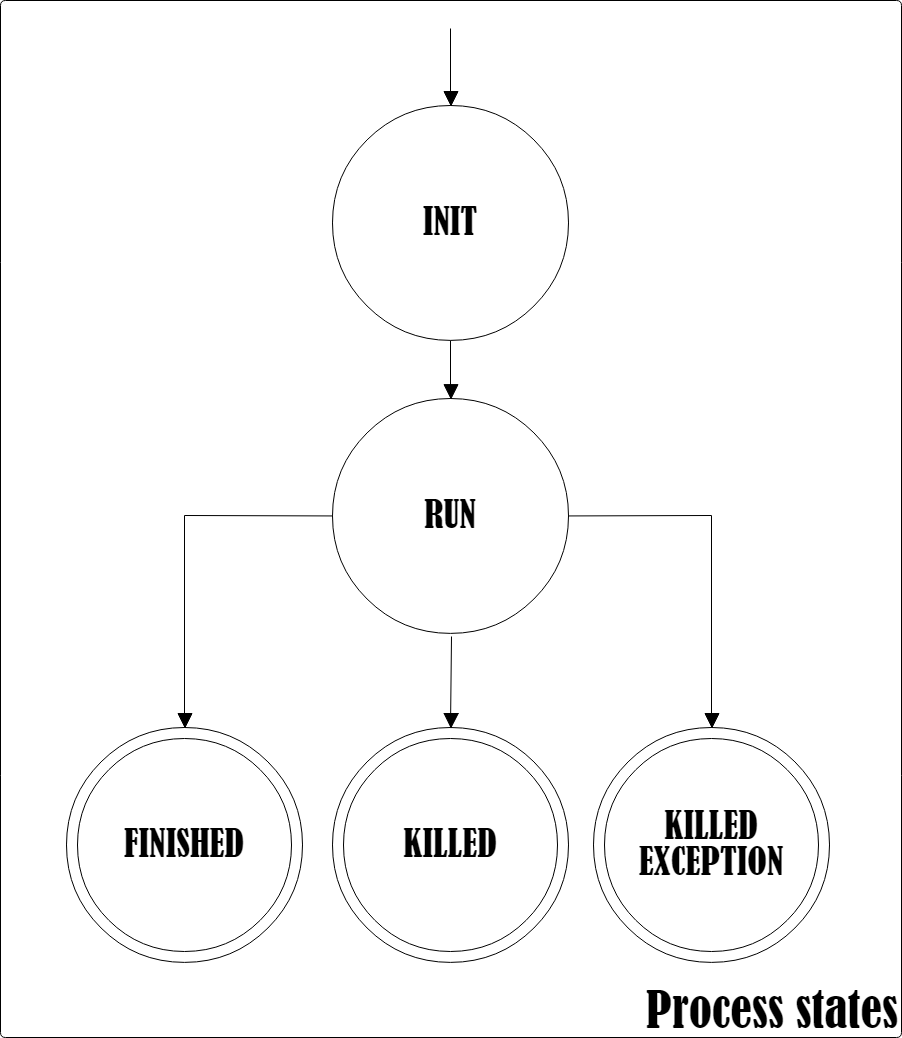
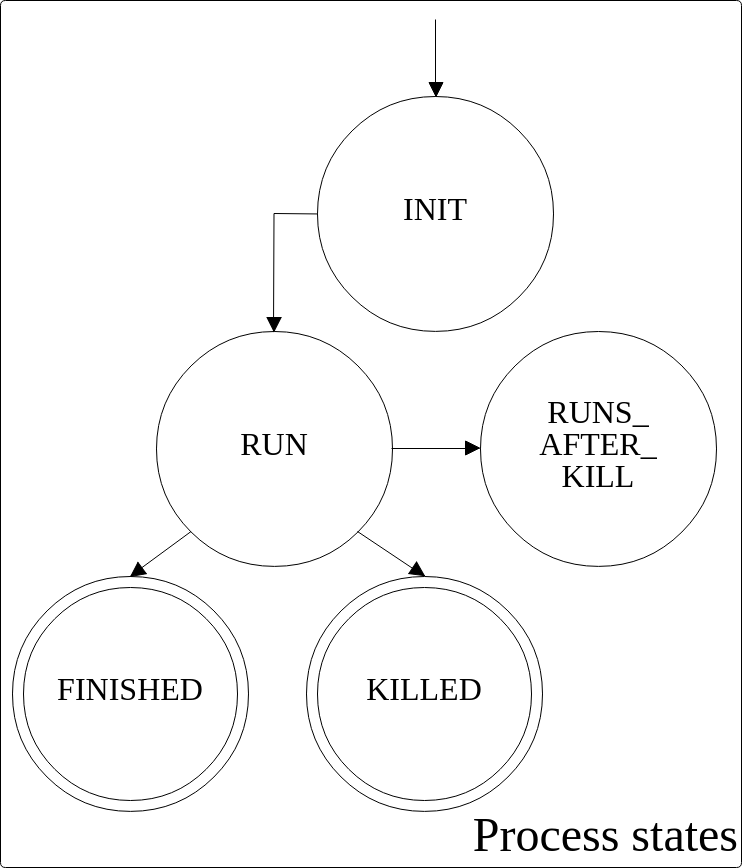
Code cleanup for linux support. Hard kill removed.

diff --git a/test/TestThreadWatcher.cpp b/test/TestThreadWatcher.cpp
@@ -69,7 +69,7 @@ void monitorWatcher(ThreadWatcher &watcher, std::vector<testProcess> processings
 void addProcessToWatcher(ThreadWatcher &watcher)
 {
 	std::this_thread::sleep_for(1s);
-	std::shared_ptr<IFunction> ptrProcessClean(new CleanProcessTesting());
+	std::shared_ptr<IFunction> ptrProcessClean(new ProcessTesting());
 	std::shared_ptr<Process> processClean(new Process(ptrProcessClean));
 	watcher.addProcess("PASS_A37", processClean);
 	ASSERT_TRUE(watcher.existsProcess("PASS_A37"));
@@ -85,7 +85,7 @@ TEST(TestThreadWatchers, ExistsProcessNotFound)
 TEST(TestThreadWatchers, ExistsProcess)
 {
 	ThreadWatcher watcher;
-	std::shared_ptr<IFunction> ptrFunction(new CleanProcessTesting());
+	std::shared_ptr<IFunction> ptrFunction(new ProcessTesting());
 	std::shared_ptr<Process> process(new Process(ptrFunction));
 
 	watcher.addProcess("PASS_A38", process);
@@ -96,7 +96,7 @@ TEST(TestThreadWatchers, ExistsProcess)
 TEST(TestThreadWatchers, RemoveProcess)
 {
 	ThreadWatcher watcher;
-	std::shared_ptr<IFunction> ptrFunction(new CleanProcessTesting());
+	std::shared_ptr<IFunction> ptrFunction(new ProcessTesting());
 	std::shared_ptr<Process> process(new Process(ptrFunction));
 
 	ASSERT_FALSE(watcher.existsProcess("PASS_A38"));
@@ -109,8 +109,8 @@ TEST(TestThreadWatchers, RemoveProcess)
 TEST(TestThreadWatchers, ProcessMonitoring)
 {
 	ThreadWatcher watcher;
-	std::shared_ptr<IFunction> ptrProcessClean(new CleanProcessTesting());
-	std::shared_ptr<IFunction> ptrProcessKill(new KillProcessTesting());
+	std::shared_ptr<IFunction> ptrProcessClean(new ProcessTesting());
+	std::shared_ptr<IFunction> ptrProcessKill(new ProcessTesting());
 	std::shared_ptr<Process> processClean(new Process(ptrProcessClean));
 	std::shared_ptr<Process> processKill(new Process(ptrProcessKill));
 
@@ -130,14 +130,14 @@ TEST(TestThreadWatchers, ProcessMonitoring)
 		stopWatcher.join();
 
 	EXPECT_TRUE(watcher.hasProcessStatus("PASS_A38", Process::Status::FINISHED));
-	EXPECT_TRUE(watcher.hasProcessStatus("PASS_A39", Process::Status::KILLED));
+	EXPECT_TRUE(watcher.hasProcessStatus("PASS_A39", Process::Status::FINISHED));
 }
 
 TEST(TestThreadWatchers, ProcessMonitoringAddNewProcessByRun)
 {
 	ThreadWatcher watcher;
-	std::shared_ptr<IFunction> ptrProcessClean(new CleanProcessTesting());
-	std::shared_ptr<IFunction> ptrProcessKill(new KillProcessTesting());
+	std::shared_ptr<IFunction> ptrProcessClean(new ProcessTesting());
+	std::shared_ptr<IFunction> ptrProcessKill(new ProcessTesting());
 	std::shared_ptr<Process> processClean(new Process(ptrProcessClean));
 	std::shared_ptr<Process> processKill(new Process(ptrProcessKill));
 
@@ -162,5 +162,5 @@ TEST(TestThreadWatchers, ProcessMonitoringAddNewProcessByRun)
 
 	EXPECT_TRUE(watcher.hasProcessStatus("PASS_A37", Process::Status::FINISHED));
 	EXPECT_TRUE(watcher.hasProcessStatus("PASS_A38", Process::Status::FINISHED));
-	EXPECT_TRUE(watcher.hasProcessStatus("PASS_A39", Process::Status::KILLED));
+	EXPECT_TRUE(watcher.hasProcessStatus("PASS_A39", Process::Status::FINISHED));
 }

diff --git a/src/ThreadWatcher/Process.cpp b/src/ThreadWatcher/Process.cpp
@@ -11,13 +11,12 @@ Process::~Process()
 
 void Process::start()
 {
-	this->processStatus = Process::Status::RUN;
 	// Start std::thread here
 	this->thread = std::thread(&IFunction::process, function);
 	if (thread.joinable())
 	{
+        this->processStatus = Process::Status::RUN;
 		// Join running thread and if closed stop it
-		this->native_handle = this->thread.native_handle();
 		this->thread.join();
 	}
 }
@@ -30,31 +29,15 @@ void Process::stop()
 		this->function->stop();
 		// Time for thread to stop
 		std::this_thread::sleep_for(2s);
-
 		// Check if thread is still running
-		if (isRunning())
-		{
-			#ifdef __linux__ 
-				pthread_cancel(native_handle);
-				this->processStatus = Process::Status::KILLED;
-			#elif _WIN32
-				// https://docs.microsoft.com/en-us/windows/desktop/api/processthreadsapi/nf-processthreadsapi-terminatethread
-				// If termination was not successfully try to kill hard thread process
-				DWORD result = ::TerminateThread(native_handle, 1);
-				if (result != 0)
-				{
-					this->processStatus = Process::Status::KILLED;
-				}
-				else
-				{
-					this->processStatus = Process::Status::KILLEXCEPTION;
-				}
-			#endif
-		}
-		else
+		if (!isRunning())
 		{
 			this->processStatus = Process::Status::FINISHED;
 		}
+		else
+        {
+            this->processStatus = Process::Status::RUNS_AFTER_KILL;
+        }
 	}
 }
 
@@ -70,7 +53,7 @@ bool Process::isRunning()
 
 void Process::updateStatus()
 {
-	if (!isRunning() && this->processStatus != Process::Status::FINISHED && this->processStatus != Process::Status::KILLEXCEPTION)
+	if (!isRunning() && this->processStatus != Process::Status::FINISHED && this->processStatus != Process::Status::RUNS_AFTER_KILL)
 	{
 		this->processStatus = Process::Status::KILLED;
 	}

diff --git a/test/Util.h b/test/Util.h
@@ -3,11 +3,11 @@
 #include <atomic>
 
 /**
-* @brief Test implementation from a process function which stopes clear.
+* @brief Test implementation from a example process.
 *
 * @author Andreas Sekulski
 */
-class CleanProcessTesting : public ::IFunction
+class ProcessTesting : public ::IFunction
 {
 
 public:
@@ -15,7 +15,7 @@ public:
 	/**
 	* @brief Construct a new Clean Process Testing object
 	*/
-	CleanProcessTesting()
+    ProcessTesting()
 	{
 		stopProcess = false;
 	}
@@ -23,7 +23,7 @@ public:
 	/**
 	* @brief Destroy the Clean Process Testing object
 	*/
-	virtual ~CleanProcessTesting() {};
+	virtual ~ProcessTesting() {};
 
 	/**
 	 * Overridden function.
@@ -44,41 +44,7 @@ public:
 private:
 
 	/**
-	* @brief Atomic boolean to stop process.
-	*/
+	 * @brief Atomic boolean to stop process.
+	 */
 	std::atomic<bool> stopProcess;
-};
-
-/**
-* @brief Test implementation from a process function which only can be killed hard.
-*
-* @author Andreas Sekulski
-*/
-class KillProcessTesting : public ::IFunction
-{
-
-public:
-
-	/**
-	* @brief Construct a new Kill Process Testing object
-	*/
-	KillProcessTesting() {}
-
-	/**
-	* @brief Destroy the Kill Process Testing object
-	*/
-	virtual ~KillProcessTesting() {};
-
-	/**
-	 * Overridden function.
-	 */
-	void process() override
-	{
-		while (true) {}
-	}
-
-	/**
-	 * Overridden function.
-	 */
-	void stop() override {}
 };

diff --git a/test/TestProcess.cpp b/test/TestProcess.cpp
@@ -7,9 +7,9 @@
 
 using namespace std::chrono_literals;
 
-TEST(TestProcess, ProcessingStatusClean) 
+TEST(TestProcess, ProcessingStatus)
 {
-	std::shared_ptr<IFunction> ptrFunction(new CleanProcessTesting());
+	std::shared_ptr<IFunction> ptrFunction(new ProcessTesting());
 	std::shared_ptr<Process> process(new Process(ptrFunction));
 
 	ASSERT_TRUE(process->hasStatus(Process::Status::INIT));
@@ -27,26 +27,4 @@ TEST(TestProcess, ProcessingStatusClean)
 		threadStop.join();
 
 	ASSERT_TRUE(process->hasStatus(Process::Status::FINISHED));
-}
-
-TEST(TestProcess, ProcessingStatusKill)
-{
-	std::shared_ptr<IFunction> ptrFunction(new KillProcessTesting());
-	std::shared_ptr<Process> process(new Process(ptrFunction));
-
-	ASSERT_TRUE(process->hasStatus(Process::Status::INIT));
-	std::thread threadStart = std::thread(&Process::start, process);
-	std::this_thread::sleep_for(2s);
-
-	ASSERT_TRUE(process->hasStatus(Process::Status::RUN));
-
-	std::thread threadStop = std::thread(&Process::stop, process);
-
-	if (threadStart.joinable())
-		threadStart.join();
-
-	if (threadStop.joinable())
-		threadStop.join();
-
-	ASSERT_TRUE(process->hasStatus(Process::Status::KILLED));
 }

diff --git a/src/ThreadWatcher/Process.h b/src/ThreadWatcher/Process.h
@@ -4,12 +4,6 @@
 #include <thread>
 #include <chrono>
 
-#ifdef __linux__ 
-#include <pthread.h> 
-#elif _WIN32
-#include <windows.h>
-#endif
-
 using namespace std::chrono_literals;
 
 /**
@@ -34,7 +28,7 @@ public:
 		RUN, 			///< Process is running
 		FINISHED, 		///< Process is stopped clear
 		KILLED, 		///< Process is hard killed
-		KILLEXCEPTION	///< Process can not be killed by an exception
+		RUNS_AFTER_KILL	///< Process can not be killed and runs always.
 	};
 
 	/**
@@ -80,11 +74,6 @@ public:
 	void updateStatus();
 
 private:
-
-	/**
-	 * @brief Native handler from running thread.
-	 */
-	void* native_handle;
 
 	/**
 	 * @brief Actual thread from running process.
